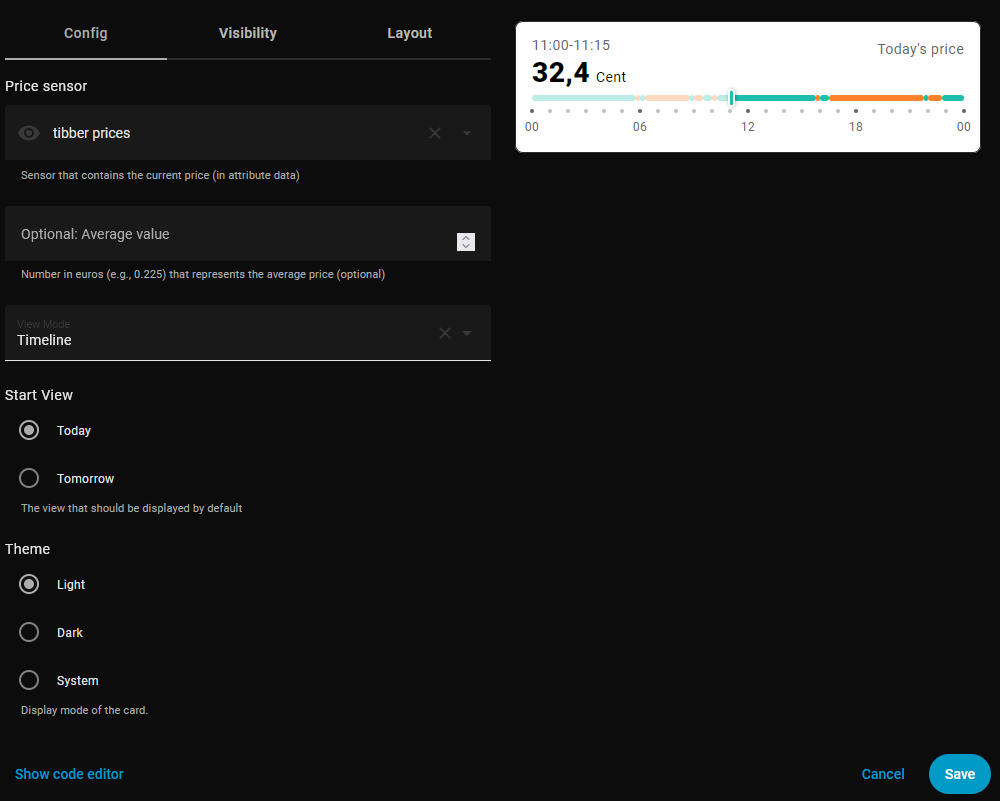
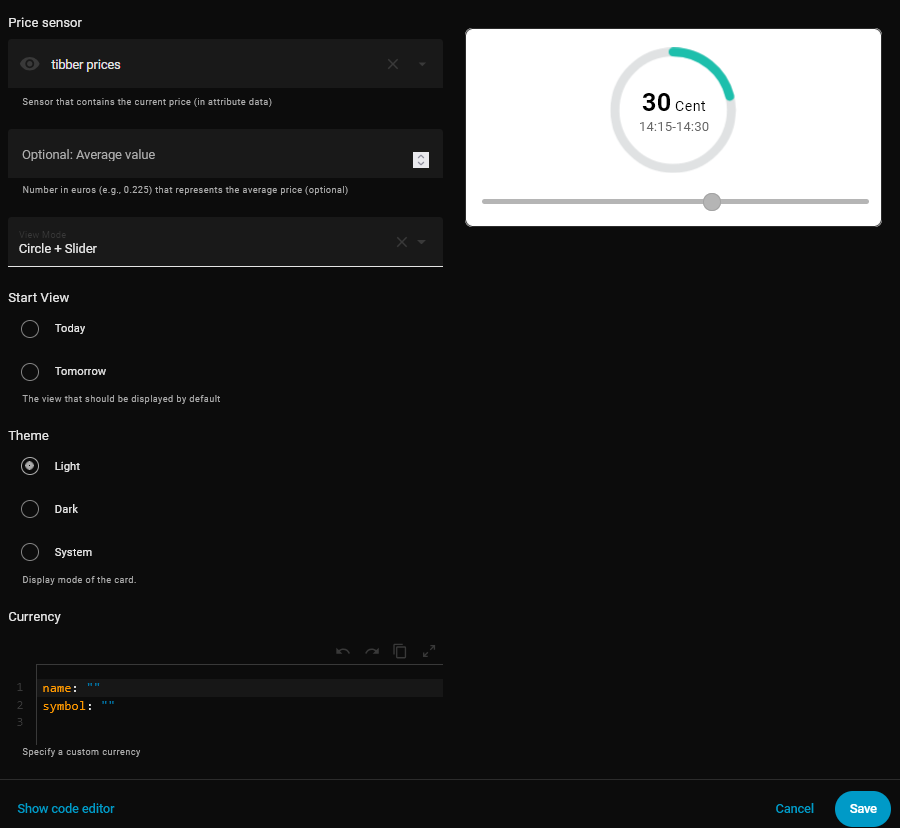
Feature: add currency (#14)
* added currency parameter

diff --git a/price-timeline-card.js b/price-timeline-card.js
@@ -421,6 +421,24 @@ class PriceTimelineCard extends LitElement {
     
       return { min, max };
     }
+    
+    _getCurrency(lang = this.hass?.language || "en") {
+    //default =cent
+      const defaultCurrency = {
+        name: localize("unit_cent", lang), 
+        symbol: "¢",
+      };
+    
+     const cur = this.config.currency;
+     if (cur && (cur.name?.trim() || cur.symbol?.trim())) {
+            return {
+                name: cur.name?.trim() || defaultCurrency.name,
+                symbol: cur.symbol?.trim() || defaultCurrency.symbol,
+            };
+      }
+    
+      return defaultCurrency;
+    }
 
 
     //CIRCLE
@@ -449,7 +467,7 @@ class PriceTimelineCard extends LitElement {
                 <div class="circle-text">
                     <div class="price">
                         <span class="value">${formattedPrice}</span>
-                        <span class="unit">${localize("unit_cent", lang)}</span>
+                        <span class="unit">${this._getCurrency(lang).name}</span>
                     </div>
                     <div class="time">${timeLabel}</div>
                 </div>
@@ -494,7 +512,7 @@ class PriceTimelineCard extends LitElement {
                     <div class="time">${timeLabel}</div>
                     <div class="price">
                         <span class="value">${formattedPriceTL}</span>
-                        <span class="unit">${localize("unit_cent", lang)}</span>
+                        <span class="unit">${this._getCurrency(lang).name}</span>
                     </div>
                 </div>
                 <div class="label">${this._dayOffset === 0 ? localize("label_today_price", lang) : localize("label_tomorrow_price", lang)}</div>
@@ -636,8 +654,9 @@ class PriceTimelineEditor extends LitElement {
        }
      
        delete newConfig.view_mode; 
-     
+
        this._config = newConfig;
+
        this.dispatchEvent(
          new CustomEvent("config-changed", {
            detail: { config: this._config },
@@ -646,6 +665,7 @@ class PriceTimelineEditor extends LitElement {
          })
        );
     }
+    
     
     render() {
       if (!this._config) return html``;
@@ -694,11 +714,26 @@ class PriceTimelineEditor extends LitElement {
             },
           },
         },
+        {
+            name: "currency",
+            selector: {
+              object: {
+                properties: {
+                  name: { selector: { text: {} } },
+                  symbol: { selector: { text: {} } },
+                }
+              }
+            }
+      },
       ];
     
       const data = {
         ...this._config,
         view_mode: mode, 
+        currency: {
+            name: this._config?.currency?.name || "",
+            symbol: this._config?.currency?.symbol || "",
+         },
       };
     
       return html`

diff --git a/localize/de.js b/localize/de.js
@@ -21,4 +21,6 @@ export default {
   editor_start_view_label: "Start-Ansicht",
   editor_start_view_desc: "Ansicht welche standardmäßig angezeigt werden soll",
   editor_view_mode_label: "Ansicht-Modus",
+  editor_currency_label: "Währung",
+  editor_currency_desc: "Eigene Währung angeben",
 };

diff --git a/localize/fr.js b/localize/fr.js
@@ -21,4 +21,6 @@ export default {
   editor_start_view_label: "Vue de démarrage",
   editor_start_view_desc: "Vue à afficher par défaut",
   editor_view_mode_label: "Mode d’affichage",
+  editor_currency_label: "Monnaie",
+  editor_currency_desc: "Indiquez une devise personnalisée",
 };

diff --git a/localize/es.js b/localize/es.js
@@ -21,4 +21,6 @@ export default {
   editor_start_view_label: "Vista inicial",
   editor_start_view_desc: "Vista que se mostrará por defecto",
   editor_view_mode_label: "Modo de vista",
+  editor_currency_label: "Moneda",
+  editor_currency_desc: "Especifique una moneda personalizada",
 };

diff --git a/localize/en.js b/localize/en.js
@@ -21,4 +21,6 @@ export default {
   editor_start_view_label: "Start View",
   editor_start_view_desc: "The view that should be displayed by default",
   editor_view_mode_label: "View Mode",
+  editor_currency_label: "Currency",
+  editor_currency_desc: "Specify a custom currency",
 };

diff --git a/README.md b/README.md
@@ -205,7 +205,7 @@ Here are the available parameters for this Lovelace card.
 | `theme`    | string  | `light` | Visual theme. Possible values: `light`, `dark`, `theme` (uses Home Assistant theme variables). |
 | `slider`    | boolean  | `false` | (ONLY for circle view) Show slider to change time for current day |
 | `start_view`    | string  | `today` | Determines which view is shown by default when the card loads. Possible values: `today`, `tomorrow` |
-
+| `currency` | object | `{ name: "Cent", symbol: "¢" }` | Defines how the unit for energy price is displayed. Use this to customize the currency subunit (e.g., "Cent", "Öre", ...). The `name` is shown as text label. The `symbol` field is currently optional and not yet displayed in all views, but **it is recommended to set it** since it may be used by future features or visualizations. |
 ---
 
 ### 📘 Configuration
@@ -238,6 +238,19 @@ timeline: false
 slider: true
 ```
 ![Visual Editor](./examples/light_circle_slider.png)
+
+circle view with slider and custom currency:
+```yaml
+type: custom:price-timeline-card
+price: sensor.epex_price
+timeline: false
+theme: light
+slider: true
+currency:
+  name: Öre
+  symbol: öre
+```
+![Visual Editor](./examples/currency.png)
 
 #### Configuration with Visual Editor
 
